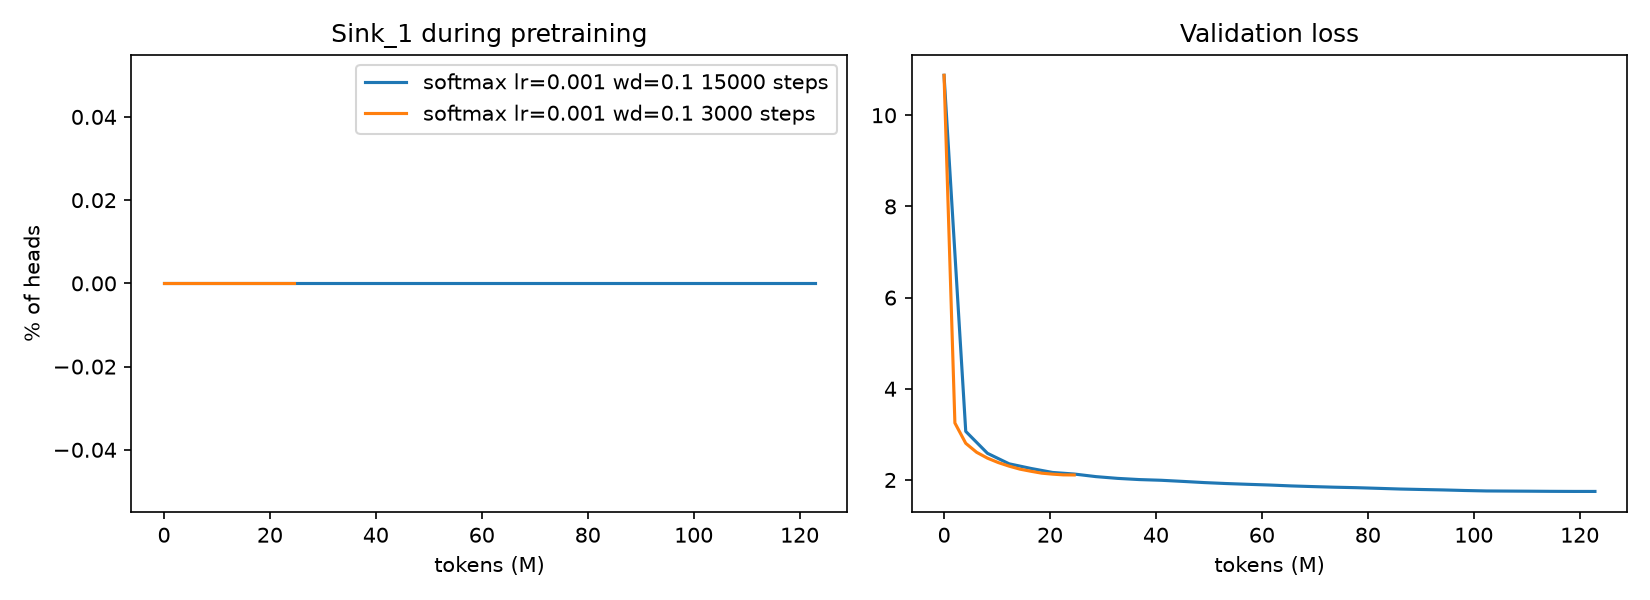
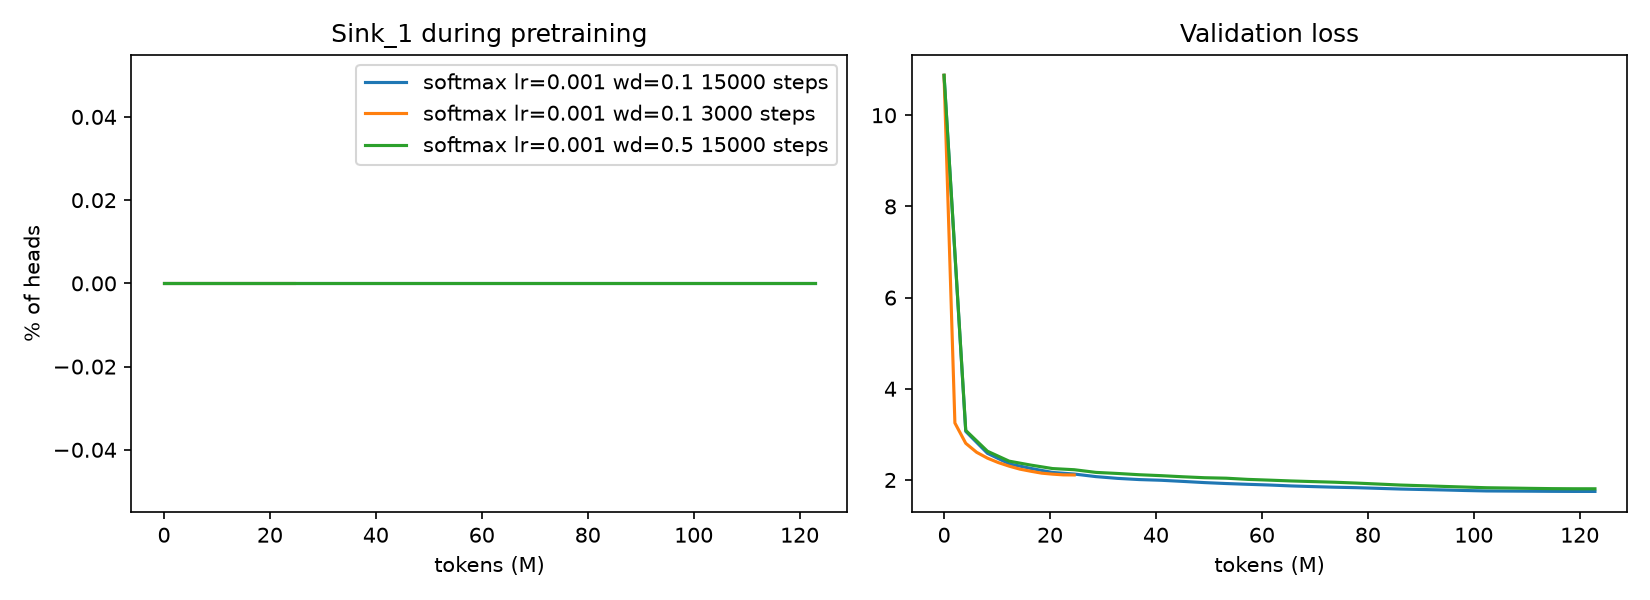
Log weight-decay 0.5 run and experiment 4 conclusion

diff --git a/README.md b/README.md
@@ -31,8 +31,8 @@ heads and samples, that sink on *k*. As in the paper: ε = 0.3, T = 64. The impl
 | 1 | Sinks exist across open LMs, even Pythia-14M; within Pythia they grow with scale (Sec. 3.3) | Sink_1 for GPT-2, Pythia 14M-410M, OPT, SmolLM2 on the paper's probe text | done |
 | 2 | Sinks persist on random tokens; on one repeated token they vanish in rotary-PE models but not learned-PE models (Sec. 3.2, App. C.1) | Same models on random-token and one-repeated-token inputs | done |
 | 3 | The first token has a massive hidden-state norm but small key and value norms, so it acts like a key bias (Sec. 3.1) | L2 norms of hidden states, keys and values per position and layer | done |
-| 4 | Sigmoid attention without normalization prevents the sink; a learnable key bias ("K biases") absorbs it (Sec. 7) | Pretrain a ~30M LLaMA-style model on TinyStories with `softmax`, `sigmoid`, `softmax_kbias` | in progress |
-| 5 | Weight decay and learning rate affect sink strength (Sec. 5-6) | `--weight-decay` / `--lr` sweeps on the same model | planned |
+| 4 | Sigmoid attention without normalization prevents the sink; a learnable key bias ("K biases") absorbs it (Sec. 7) | Pretrain a ~30M LLaMA-style model on TinyStories with `softmax`, `sigmoid`, `softmax_kbias` | softmax done; no sink below ~123M tokens, which blocks the comparison (see log) |
+| 5 | Weight decay and learning rate affect sink strength (Sec. 4, 6) | `--weight-decay` / `--lr` sweeps on the same model | γ = 0.1 vs 0.5 run; no sink at either |
 
 The paper's own pretraining runs use 60M-1B models on 5B tokens across 4 A100s. Experiments 4-5 here
 train on tens of millions of tokens, so they test whether the *direction* of each effect holds at small
@@ -54,9 +54,17 @@ scale, not the paper's exact numbers.
   Sink_1 "maintains a very small value (less than 1%)". In the default setup (60M model, 1M-token
   batches, 2048 context, lr 4e-4) the sink appears between 1k and 2k steps, i.e. after about
   1-2B tokens. Runs 1-2 here saw 25M and 123M tokens.
-- **Next:** reaching a sink at this throughput (~17k tokens/s) would take about 16 hours per
-  billion tokens. Cheaper levers the paper identifies: larger weight decay (Table 2) and a higher
-  learning rate (Table 9). The paper also trains with 2048-token context versus 256 here.
+- **Run 3** (softmax, weight decay 0.5, otherwise as run 2): the paper's Table 2 puts the strongest
+  sink at γ = 0.5 (41.1% vs. 18.2% at γ = 0.1). Here val loss reached 1.81 (vs. 1.75 at γ = 0.1, the
+  same small loss cost the paper reports), and **Sink_1 was again 0.0% at every checkpoint**. The
+  highest per-head α₁ rose only from 0.081 to 0.091, far below ε = 0.3.
+
+**Conclusion for experiment 4.** At up to 123M tokens no softmax model formed a sink, even at the
+paper's most sink-friendly weight decay. That reproduces the paper's data-amount result (App. D.2:
+under ~100M tokens Sink_1 stays below 1%). But because the softmax baseline never sinks, the
+sigmoid-vs-softmax comparison can't be tested at this compute budget, so those runs weren't done.
+Testing it needs roughly 1-2B tokens per run, about 16-32 hours each at the ~17k tokens/s an M5
+manages here, or a few hours on a single A100. The code supports it unchanged.
 
 ## Run it
 

diff --git a/results/summary.md b/results/summary.md
@@ -21,3 +21,4 @@
 |---|---|---|---|---|
 | softmax lr=0.001 wd=0.1 15000 steps | 30.5M | 122.9M | 1.748 | 0.0 |
 | softmax lr=0.001 wd=0.1 3000 steps | 30.5M | 24.6M | 2.110 | 0.0 |
+| softmax lr=0.001 wd=0.5 15000 steps | 30.5M | 122.9M | 1.807 | 0.0 |
